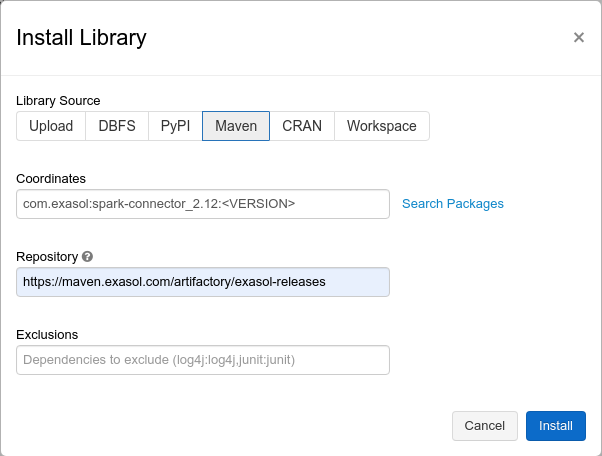
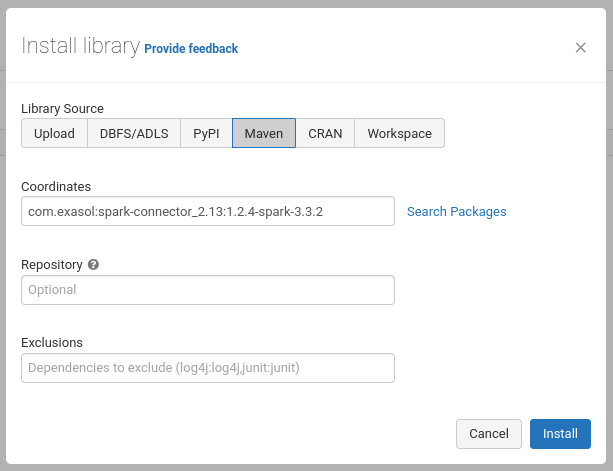
#138: Removed Exasol Artifactory references from user guide (#139)

Changed region(s): [[0.0, 0.0, 1.0, 1.0], [0.6279, 0.4298, 0.8372, 0.4605], [0.9269, 0.0921, 0.9568, 0.1228]]

diff --git a/doc/user_guide/user_guide.md b/doc/user_guide/user_guide.md
@@ -34,40 +34,24 @@ is used for the parallel connections from the Spark tasks to Exasol data nodes.
 The Spark Exasol Connector is released to the Maven Central Repository. You can
 find all the releases at [com.exasol/spark-connector][maven-link] page.
 
-[maven-link]: https://search.maven.org/artifact/com.exasol/spark-connector_2.12
+[maven-link]: https://central.sonatype.com/search?q=%2522spark-connector_2.13%2522%2520%2522com.exasol%2522
 
 There are several options to include the connector as a dependency to your
-projects. Here we assume you know the basics of providing dependencies to your
 projects.
 
 ### Spark Exasol Connector as Maven Dependency
 
 You can provide the connector as a dependency to your Spark Java applications.
 
-For that add the Exasol Artifactory and the dependency itself to your project:
-
 ```xml
-<repositories>
-    <repository>
-        <id>maven.exasol.com</id>
-        <url>https://maven.exasol.com/artifactory/exasol-releases</url>
-    </repository>
-</repositories>
-
 <dependencies>
     <dependency>
         <groupId>com.exasol</groupId>
-        <artifactId>spark-connector_2.12</artifactId>
+        <artifactId>spark-connector_2.13</artifactId>
         <version><VERSION></version>
     </dependency>
 </dependencies>
 ```
-
-The connector uses the [Exasol JDBC driver][exasol-jdbc] as one of its
-dependencies. We add the repository identifier for the Exasol Maven Artifactory
-so that the Exasol JDBC is transitively fetched.
-
-[exasol-jdbc]: https://docs.exasol.com/connect_exasol/drivers/jdbc.htm
 
 Please do not forget to update the `<VERSION>` placeholder with one of the
 latest Spark Exasol Connector releases.
@@ -78,13 +62,10 @@ To provide the connector to your Spark Scala projects, add the following lines
 to your `build.sbt` file:
 
 ```scala
-resolvers ++= Seq("Exasol Releases" at "https://maven.exasol.com/artifactory/exasol-releases")
-
 libraryDependencies += "com.exasol" % "spark-connector" %% "<VERSION>"
 ```
 
-Similar to the Java dependency, we add the resolver to the Exasol Artifactory so
-that the Exasol JDBC driver can be found.
+Similarly, please do not forget to update the `<VERSION>` placeholder.
 
 ### Spark Exasol Connector as Databricks Cluster Dependency
 
@@ -97,14 +78,11 @@ Similar to using maven, you should provide maven artifact coordinates to the
 
 Go to your cluster, then to `Libraries`, and click `Install New`:
 
-- Select Maven as a Library Source.
-- In the Coordinate field, enter artifact coordinates
-  `com.exasol:spark-connector_2.12:<VERSION>`. Please notice that we use the
-  Scala version 2.12, change it to 2.13 if your Databricks Runtime version
-  requires it.
-- In the Repository field, enter the Exasol Artifactory
-  `https://maven.exasol.com/artifactory/exasol-releases`.
-- Click Install.
+- Select Maven as a `Library Source`
+- In the `Coordinates` field, enter artifact coordinates
+  `com.exasol:spark-connector_2.13:<VERSION>`. Please note that we use the
+  Scala version 2.13. Please contact us know if you require Scala version 2.12.
+- Click `Install`
 
 Please change the `<VERSION>` to one of the latest Spark Exasol Connector
 releases.
@@ -112,12 +90,10 @@ releases.
 ### Spark Exasol Connector With Spark Shell
 
 You can also integrate the Spark Exasol Connector to the Spark Shell. Provide
-the artifact coordinates to the `--repositories` and `--packages` parameters:
+the artifact coordinates `--packages` parameters:
 
 ```sh
-spark-shell \
-  --repositories https://maven.exasol.com/artifactory/exasol-releases \
-  --packages com.exasol:spark-connector_2.12:<VERSION>
+spark-shell --packages com.exasol:spark-connector_2.13:<VERSION>
 ```
 
 The `spark-shell` provides Read-Eval-Print-Loop (REPL) to interactively learn
@@ -133,14 +109,13 @@ Use the `spark-submit` command:
 ```sh
 spark-submit \
   --master spark://spark-master-url:7077 \
-  --repositories https://maven.exasol.com/artifactory/exasol-releases \
-  --packages com.exasol:spark-connector_2.11:<VERSION> \
+  --packages com.exasol:spark-connector_2.13:<VERSION> \
   --class com.organization.SparkApplication \
   path/to/spark_application.jar
 ```
 
-The `--repositories` and `--packages` can be omitted if your Spark application
-JAR already includes the connector as a dependency (e.g, jar-with-dependencies).
+The `--packages` parameter can be omitted if your Spark application
+JAR already includes the connector as a dependency (e.g, `jar-with-dependencies`).
 
 Like `spark-shell` and `spark-submit`, you can also use `pyspark` and `sparkR`
 commands.
@@ -172,13 +147,13 @@ mvn package -DskipTests=true
 The assembled jar file with the `-assembly` suffix should be located in the `target/`
 folder.
 
-If you want different version of Spark, you can use profiles `-Pspark3.1` or
-`-Pspark2.4` for Spark `3.1` or `2.4` versions respectively.
+If you want different version of Spark, you can use profiles `-Pspark3.2` or
+`-Pspark3.1` for Spark `3.2` or `3.1` versions, respectively.
 
 For example,
 
 ```sh
-mvn package -Pspark3.1 -DskipTests=true
+mvn package -Pspark3.2 -DskipTests=true
 ```
 
 Then you can use this jar file with `spark-submit`, `spark-shell` or `pyspark`
@@ -195,20 +170,20 @@ facilitate the integration between Spark and Exasol clusters.
 
 List of required and optional parameters:
 
-| Spark Configuration           | Configuration    | Default       | Description
-| :---                          | :---             | :---          | :---
-|                               | ``query``        | *<none>*      | An Exasol SQL query string to send to Exasol cluster
-|                               | ``table``        | *<none>*      | A table name (with schema, e.g. schema.table) to save dataframe into
-| ``spark.exasol.host``         | ``host``         | ``10.0.0.11`` | A host ip address to the **first** Exasol node
-| ``spark.exasol.port``         | ``port``         | ``8563``      | A JDBC port number to connect to Exasol database
-| ``spark.exasol.username``     | ``username``     | ``sys``       | A username for connecting to the Exasol database
-| ``spark.exasol.password``     | ``password``     | ``exasol``    | A password for connecting to the Exasol database
-| ``spark.exasol.fingerprint``  | ``fingerprint``  | ``""``        | A Exasol connection certificate fingerprint value
-| ``spark.exasol.max_nodes``    | ``max_nodes``    | ``200``       | The number of data nodes in the Exasol cluster
-| ``spark.exasol.batch_size``   | ``batch_size``   | ``1000``      | The number of records batched before running an execute statement when saving dataframe
-| ``spark.exasol.create_table`` | ``create_table`` | ``false``     | A permission to create a table if it does not exist in the Exasol database when saving dataframe
-| ``spark.exasol.drop_table``   | ``drop_table``   | ``false``     | A permission to drop the table if it exists in the Exasol database when saving dataframe
-| ``spark.exasol.jdbc_options`` | ``jdbc_options`` | ``""``        | A string to specify the list of Exasol JDBC options using a ``key1=value1;key2=value2`` format
+| Spark Configuration         | Configuration  | Default     | Description                                                                                      |
+| :-------------------------- | :------------- | :---------- | :----------------------------------------------------------------------------------------------- |
+|                             | `query`        | _<none>_    | An Exasol SQL query string to send to Exasol cluster                                             |
+|                             | `table`        | _<none>_    | A table name (with schema, e.g. schema.table) to save dataframe into                             |
+| `spark.exasol.host`         | `host`         | `10.0.0.11` | A host ip address to the **first** Exasol node                                                   |
+| `spark.exasol.port`         | `port`         | `8563`      | A JDBC port number to connect to Exasol database                                                 |
+| `spark.exasol.username`     | `username`     | `sys`       | A username for connecting to the Exasol database                                                 |
+| `spark.exasol.password`     | `password`     | `exasol`    | A password for connecting to the Exasol database                                                 |
+| `spark.exasol.fingerprint`  | `fingerprint`  | `""`        | A Exasol connection certificate fingerprint value                                                |
+| `spark.exasol.max_nodes`    | `max_nodes`    | `200`       | The number of data nodes in the Exasol cluster                                                   |
+| `spark.exasol.batch_size`   | `batch_size`   | `1000`      | The number of records batched before running an execute statement when saving dataframe          |
+| `spark.exasol.create_table` | `create_table` | `false`     | A permission to create a table if it does not exist in the Exasol database when saving dataframe |
+| `spark.exasol.drop_table`   | `drop_table`   | `false`     | A permission to drop the table if it exists in the Exasol database when saving dataframe         |
+| `spark.exasol.jdbc_options` | `jdbc_options` | `""`        | A string to specify the list of Exasol JDBC options using a `key1=value1;key2=value2` format     |
 
 ### Max Nodes
 
@@ -410,12 +385,12 @@ time.
 
 Additionally, a Spark save operation takes optional `SaveMode` configurations.
 
-| Spark Save Mode     | Description
-| :---                | :---
-| `"error"` (default) | If the table exists an exception is thrown. You could drop the table via the connector `drop_table` option.
-| `"append"`          | If the table exists, the contents of the dataframe are appended to the existing table.
-| `"overwrite"`       | If the table exists, it is truncated first and then the contents of the dataframe are saved to the table.
-| `"ignore"`          | If the table exists, the save operation is skipped, and nothing is changed in the existing table.
+| Spark Save Mode     | Description                                                                                                 |
+| :------------------ | :---------------------------------------------------------------------------------------------------------- |
+| `"error"` (default) | If the table exists an exception is thrown. You could drop the table via the connector `drop_table` option. |
+| `"append"`          | If the table exists, the contents of the dataframe are appended to the existing table.                      |
+| `"overwrite"`       | If the table exists, it is truncated first and then the contents of the dataframe are saved to the table.   |
+| `"ignore"`          | If the table exists, the save operation is skipped, and nothing is changed in the existing table.           |
 
 Please keep in mind that Spark Save Modes do not use any locking mechanisms,
 thus they are not atomic.

diff --git a/README.md b/README.md
@@ -1,7 +1,7 @@
 # Spark Exasol Connector
 
 [![Build Status](https://github.com/exasol/spark-connector/actions/workflows/ci-build.yml/badge.svg)](https://github.com/exasol/spark-connector/actions/workflows/ci-build.yml)
-[![Maven Central – The Spark Exasol Connector](https://img.shields.io/maven-central/v/com.exasol/spark-connector)](https://search.maven.org/artifact/com.exasol/spark-connector_2.13)
+[![Maven Central – The Spark Exasol Connector](https://img.shields.io/maven-central/v/com.exasol/spark-connector)](https://central.sonatype.com/search?q=%2522spark-connector_2.13%2522%2520%2522com.exasol%2522)
 
 [![Quality Gate Status](https://sonarcloud.io/api/project_badges/measure?project=com.exasol%3Aspark-connector&metric=alert_status)](https://sonarcloud.io/dashboard?id=com.exasol%3Aspark-connector)
 

diff --git a/doc/changes/changes_1.2.5.md b/doc/changes/changes_1.2.5.md
@@ -1,0 +1,19 @@
+# The Spark Exasol Connector 1.2.5, released 2023-??-??
+
+Code name:
+
+## Summary
+
+## Documentation
+
+* #138: Removed Exasol Artifactory references from user guide
+
+## Dependency Updates
+
+### Compile Dependency Updates
+
+* Updated `com.google.protobuf:protobuf-java:3.22.1` to `3.22.2`
+
+### Plugin Dependency Updates
+
+* Updated `com.diffplug.spotless:spotless-maven-plugin:2.34.0` to `2.35.0`

diff --git a/doc/changes/changelog.md b/doc/changes/changelog.md
@@ -1,5 +1,6 @@
 # Changes
 
+* [1.2.5](changes_1.2.5.md)
 * [1.2.4](changes_1.2.4.md)
 * [1.2.3](changes_1.2.3.md)
 * [1.2.2](changes_1.2.2.md)
